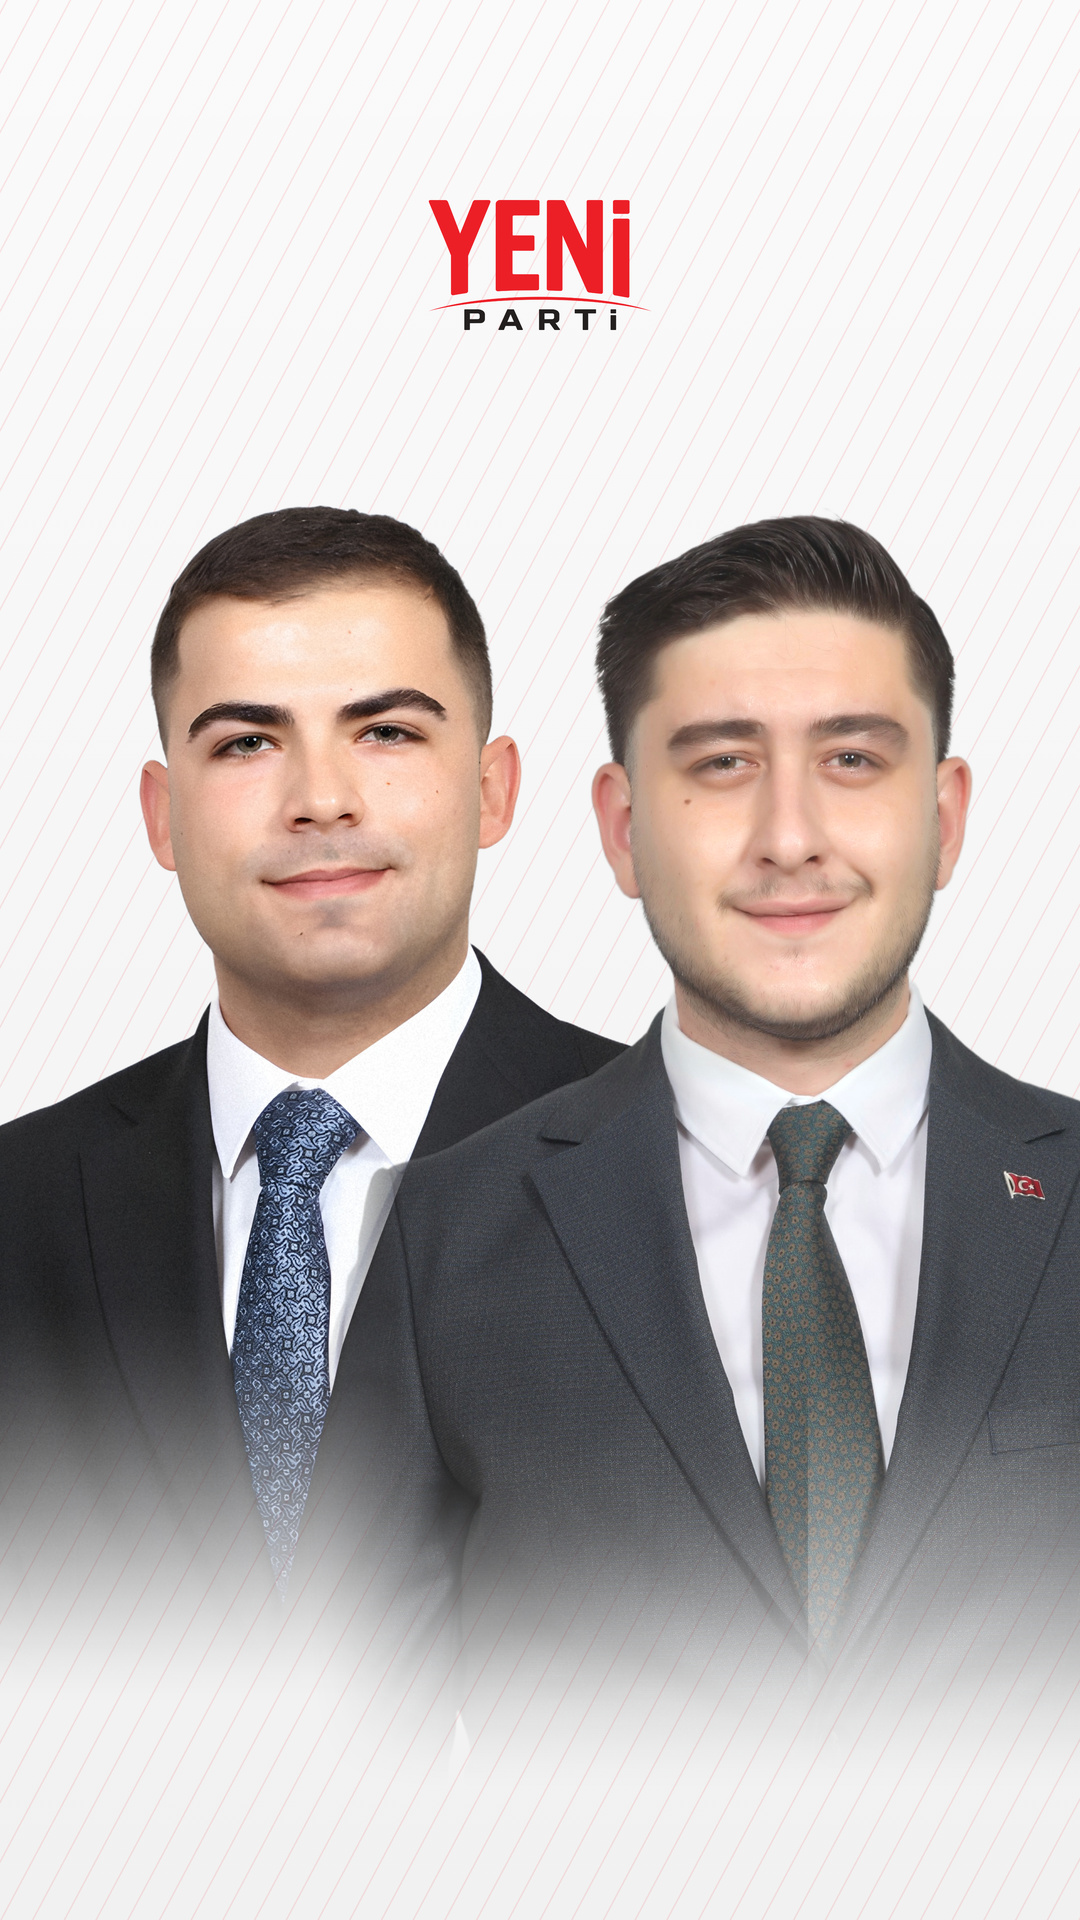
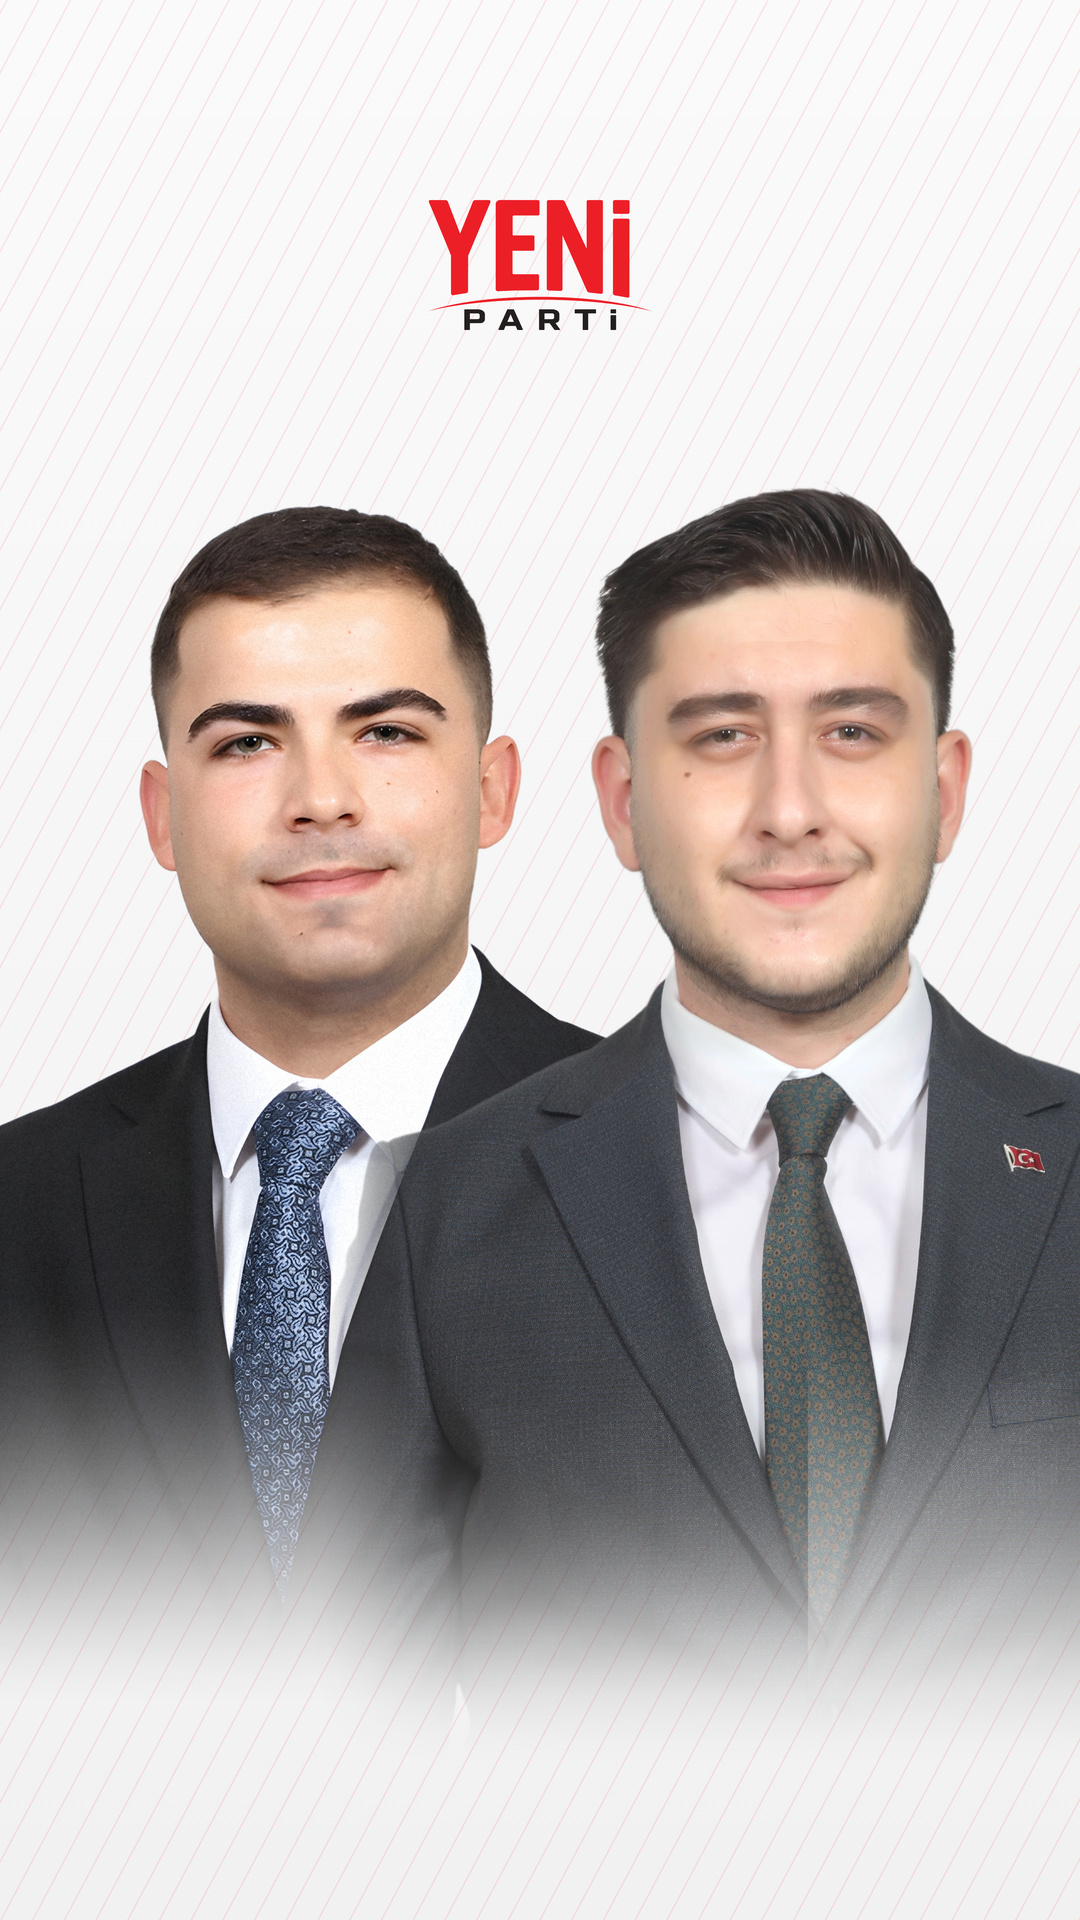
İbrahim story: kulak hizası eşitlendi
Claude-Session: https://claude.ai/code/session_01SatttGbgBLoCnk9KGLypWv

diff --git a/tasarim/kisisel/ibrahim-destek/story.html b/tasarim/kisisel/ibrahim-destek/story.html
@@ -4,7 +4,7 @@ html,body{margin:0;width:1080px;height:1920px;overflow:hidden;background:#fff}
 .top{position:absolute;left:50%;top:200px;transform:translateX(-50%);height:130px}
 .p{position:absolute}
 .b{left:-139px;top:437px;width:947px}
-.i{left:301px;top:464px;width:991px}
+.i{left:301px;top:437px;width:991px}
 </style><body><div class="zem"></div>
 <img class="top" src="yp.png">
 <img class="p b" src="bugra-f.png"><img class="p i" src="ibrahim-t.png">
